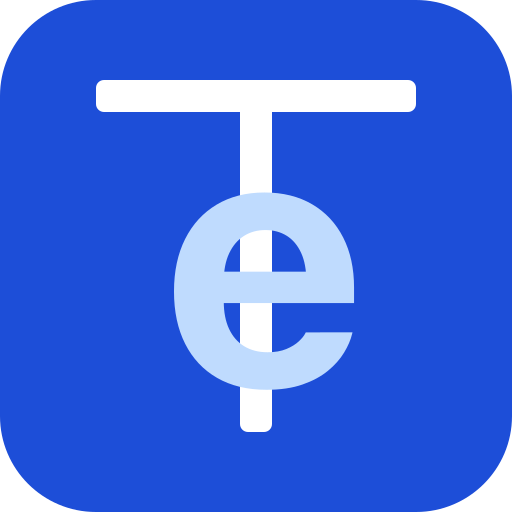
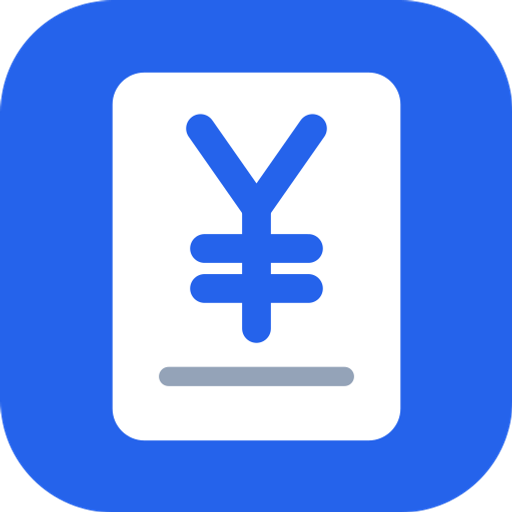
feat: アプリアイコンを会計ソフト風デザインに刷新
- favicon.svg が縦長（204x246）でブラウザ表示時に見切れていた問題を修正
- 正方形（64x64 viewBox）の角丸ブルー背景＋帳簿＋¥マークのデザインに変更
- PWA用 PNG（192/512）を新デザインで再生成
- Android向けに セーフゾーン余白付きの maskable アイコンを追加

https://claude.ai/code/session_0188QeYRxKXVa9icMzQs2dRW

diff --git a/vite.config.ts b/vite.config.ts
@@ -58,7 +58,7 @@ export default defineConfig({
 						purpose: 'any'
 					},
 					{
-						src: 'icon-512x512.png',
+						src: 'icon-maskable-512x512.png',
 						sizes: '512x512',
 						type: 'image/png',
 						purpose: 'maskable'